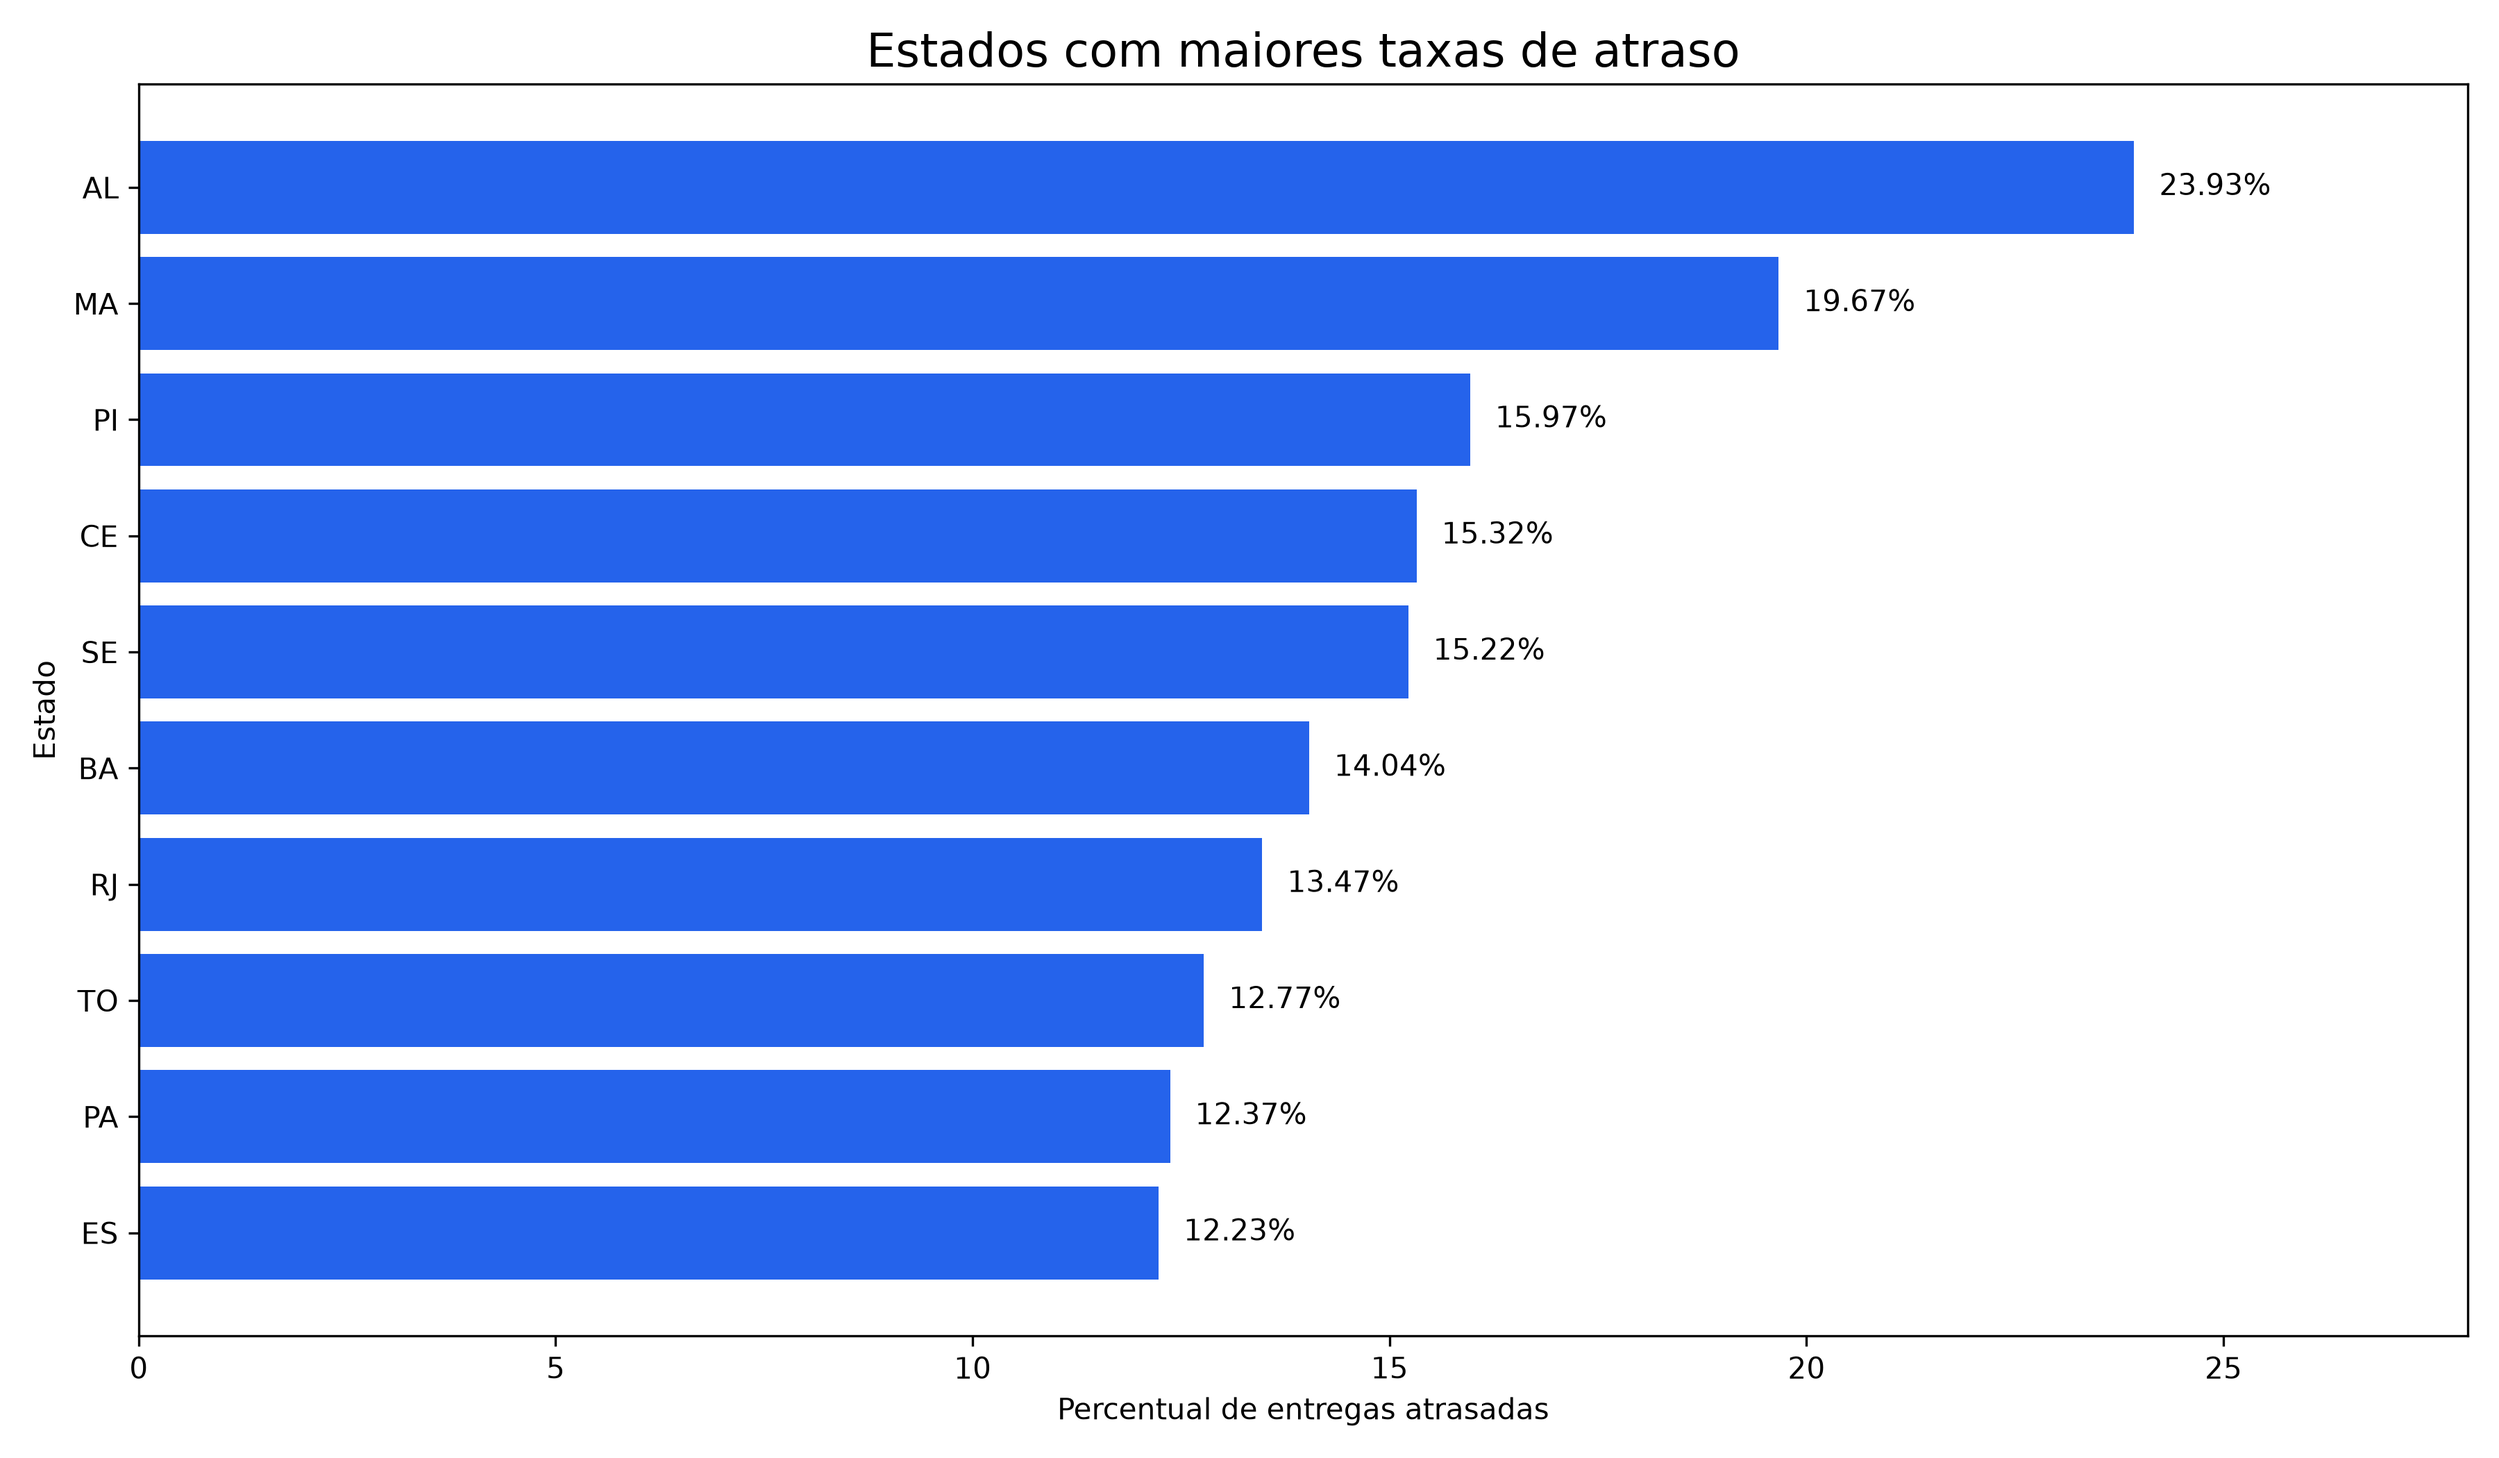
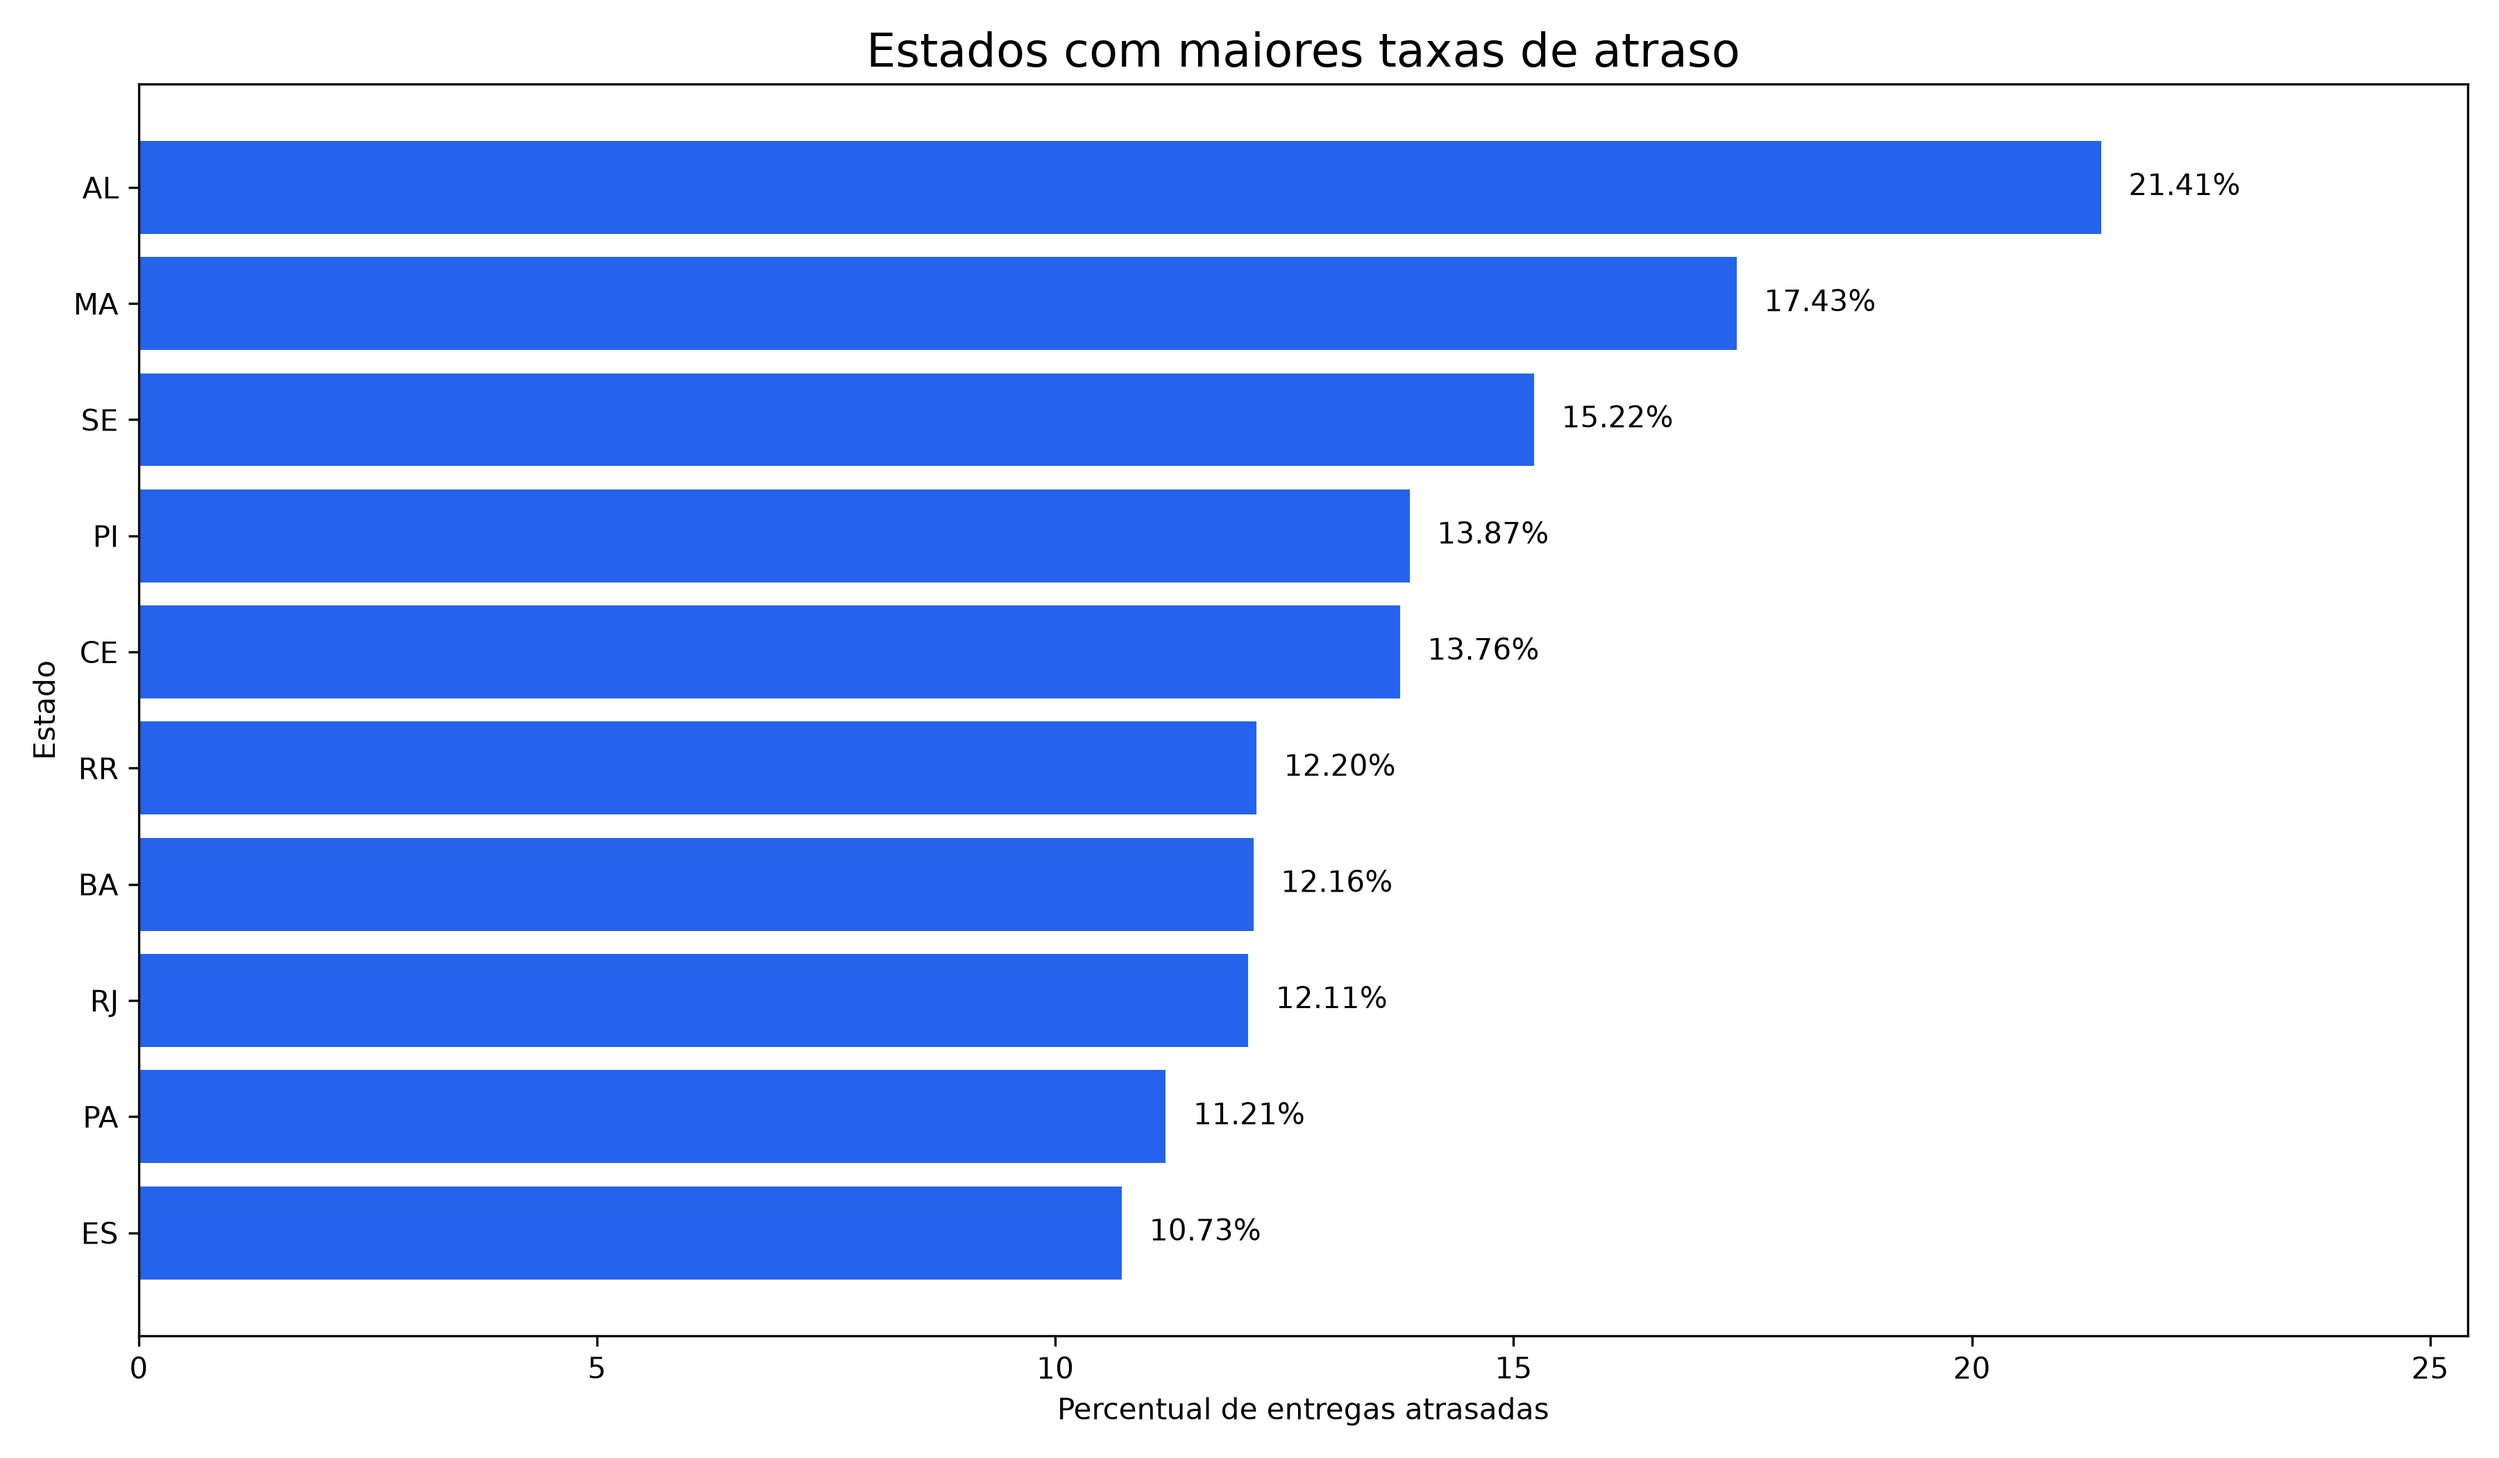
Atualiza analise de atrasos, graficos e documentacao

diff --git a/analise_inicial.py b/analise_inicial.py
@@ -120,11 +120,23 @@ entregues = entregues.dropna(
 
 # Verifica quais pedidos chegaram atrasados
 entregues["atrasado"] = (
+    entregues["order_delivered_customer_date"].dt.normalize()
+    > entregues["order_estimated_delivery_date"].dt.normalize()
+)
+# Conferência dos critérios de atraso
+atrasos_com_horario = (
     entregues["order_delivered_customer_date"]
     > entregues["order_estimated_delivery_date"]
-)
+).sum()
 
-# Conta as entregas atrasadas
+atrasos_somente_data = entregues["atrasado"].sum()
+
+print("\nCONFERÊNCIA DO CRITÉRIO DE ATRASO:")
+print(f"Com horário: {atrasos_com_horario}")
+print(f"Somente data: {atrasos_somente_data}")
+print(f"Diferença: {atrasos_com_horario - atrasos_somente_data}")
+
+# Conta as entregas analisadas e atrasadas
 total_entregues = len(entregues)
 
 total_atrasados = entregues["atrasado"].sum()
@@ -359,11 +371,11 @@ entregues["tempo_entrega_dias"] = (
     - entregues["order_purchase_timestamp"]
 ).dt.total_seconds() / 86400
 
-# Calcula a diferença entre a entrega e o prazo previsto
+# Calcula o atraso em dias completos de calendário
 entregues["dias_atraso"] = (
-    entregues["order_delivered_customer_date"]
-    - entregues["order_estimated_delivery_date"]
-).dt.total_seconds() / 86400
+    entregues["order_delivered_customer_date"].dt.normalize()
+    - entregues["order_estimated_delivery_date"].dt.normalize()
+).dt.days
 
 # Seleciona apenas os pedidos atrasados
 pedidos_atrasados = entregues[

diff --git a/README.md b/README.md
@@ -1,11 +1,17 @@
-
 # Tech Challenge FIAP — Análise de Dados da Olist
 
-## Objetivo
+## Sobre o projeto
 
-Analisar dados históricos do e-commerce brasileiro,
-investigando a eficiência das entregas e sua relação
-com a satisfação dos clientes.
+Projeto desenvolvido para o Tech Challenge — Fase 1 da pós-graduação FIAP, com foco na análise da eficiência logística e sua relação com a satisfação dos clientes no comércio eletrônico brasileiro.
+
+A análise utiliza dados históricos da Olist para identificar atrasos nas entregas, diferenças regionais e oportunidades de melhoria operacional.
+
+## Objetivos
+
+- Avaliar o desempenho das entregas em relação aos prazos previstos.
+- Investigar a associação entre atrasos e avaliações dos clientes.
+- Identificar estados com maior incidência de atrasos.
+- Propor uma iniciativa de melhoria baseada nos resultados.
 
 ## Tecnologias utilizadas
 
@@ -13,51 +19,119 @@ com a satisfação dos clientes.
 - Pandas
 - Matplotlib
 - Visual Studio Code
+- Git e GitHub
 
 ## Base de dados
 
-Brazilian E-Commerce Public Dataset by Olist.
+**Brazilian E-Commerce Public Dataset by Olist**, disponível no Kaggle.
 
-Os dados incluem informações sobre pedidos,
-clientes, entregas e avaliações.
+O conjunto contém informações históricas sobre pedidos, clientes, entregas e avaliações, referentes principalmente ao período de 2016 a 2018.
 
-## Principais resultados
+## Principais indicadores
 
-- Total de pedidos: 99.441
-- Pedidos entregues: 97,02%
-- Entregas atrasadas: 8,11%
-- Tempo médio de entrega: 12,56 dias
-- Atraso médio: 9,55 dias
-- Avaliação média sem atraso: 4,29
-- Avaliação média com atraso: 2,57
+| Indicador | Resultado |
+|---|---:|
+| Total de pedidos | 99.441 |
+| Pedidos entregues | 97,02% |
+| Entregas analisadas com datas válidas | 96.470 |
+| Entregas atrasadas | 6.534 |
+| Taxa de atraso | 6,77% |
+| Tempo médio de entrega | 12,56 dias |
+| Atraso médio entre pedidos atrasados | 10,62 dias |
+| Avaliação média sem atraso | 4,29 / 5 |
+| Avaliação média com atraso | 2,27 / 5 |
 
 ## Principais descobertas
 
-Os pedidos entregues após o prazo previsto
-apresentaram avaliações médias menores.
+### 1. Atrasos e satisfação dos clientes
 
-Também foram identificadas diferenças nas taxas
-de atraso entre os estados brasileiros.
+Pedidos entregues dentro do prazo apresentaram avaliação média de 4,29 pontos, enquanto os entregues com atraso apresentaram média de 2,27 pontos.
+
+A diferença de aproximadamente 2,02 pontos sugere uma associação relevante entre pontualidade e satisfação, sem estabelecer uma relação causal.
+
+### 2. Diferenças regionais
+
+As taxas de atraso variaram entre os estados brasileiros.
+
+- Alagoas: 21,41% de atrasos, em 397 entregas analisadas.
+- Rio de Janeiro: 12,11%, em 12.350 entregas analisadas.
+- São Paulo: 4,49%, em 40.494 entregas analisadas.
+
+O Rio de Janeiro se destaca por combinar uma taxa de atraso superior à média nacional com um volume relevante de pedidos.
+
+### 3. Gravidade dos atrasos
+
+A avaliação média também varia conforme a duração do atraso:
+
+| Duração do atraso | Avaliação média |
+|---|---:|
+| Até 3 dias | 3,29 |
+| De 3 a 7 dias | 2,10 |
+| De 7 a 15 dias | 1,67 |
+| Mais de 15 dias | 1,73 |
+
+## Proposta de melhoria
+
+Recomenda-se um **projeto-piloto de 90 dias no Rio de Janeiro**, com o objetivo de reduzir a taxa de atrasos de 12,11% para menos de 10%.
+
+A iniciativa deve incluir diagnóstico das causas operacionais, acompanhamento semanal dos indicadores e mecanismos de identificação antecipada de entregas em risco.
+
+Mantendo hipoteticamente o volume histórico de 12.350 entregas, atingir uma taxa inferior a 10% representaria pelo menos 261 entregas atrasadas a menos.
+
+Essa estimativa é uma simulação de cenário, não uma previsão de resultado. A avaliação financeira depende de dados adicionais sobre custos, margens e operação logística.
+
+## Metodologia e tratamento dos dados
+
+A análise foi realizada com Python e Pandas, utilizando os arquivos CSV originais da Olist.
+
+Foram adotados os seguintes critérios:
+
+- Consideração dos pedidos com status de entrega concluída e datas válidas.
+- Classificação de atraso pela comparação entre a **data da entrega efetiva** e a **data prevista**, desconsiderando o horário.
+- Cálculo da duração do atraso em dias corridos.
+- Tratamento de avaliações repetidas por pedido, mantendo uma avaliação por `order_id`, após ordenação por data de criação e identificador da avaliação.
+- Cálculo de indicadores agregados e geração de gráficos com Matplotlib.
 
 ## Como executar
 
-Instale as bibliotecas necessárias:
+1. Instale o Python e as dependências:
 
-pip install pandas matplotlib
+   ```bash
+   pip install -r requirements.txt
+   ```
 
-Coloque os arquivos CSV da Olist na pasta data.
+2. Coloque os arquivos CSV originais da Olist na pasta `data/`.
 
-Execute:
+3. Execute o script:
 
-python analise_inicial.py
+   ```bash
+   python analise_inicial.py
+   ```
 
-Os gráficos serão salvos na pasta outputs.
+4. Consulte os indicadores apresentados no terminal e os gráficos gerados na pasta `outputs/`.
 
-## Observações
+## Estrutura do projeto
 
-A análise utiliza dados históricos e não
-estabelece relações de causa e efeito.
+```text
+tech-challenge-olist/
+├── data/
+├── outputs/
+├── analise_inicial.py
+├── requirements.txt
+├── README.md
+└── .gitignore
+```
 
-As avaliações repetidas por pedido foram
-tratadas por uma regra de seleção, que
-deverá ser documentada e validada.
+## Limitações
+
+Os resultados representam associações observadas em dados históricos e não comprovam causalidade.
+
+O conjunto de dados não permite identificar isoladamente as causas operacionais dos atrasos nem estimar o retorno financeiro da proposta sem informações adicionais.
+
+## Repositório
+
+https://github.com/lauralvesgr/tech-challenge-olist
+
+## Fonte dos dados
+
+Olist — Brazilian E-Commerce Public Dataset (Kaggle).
